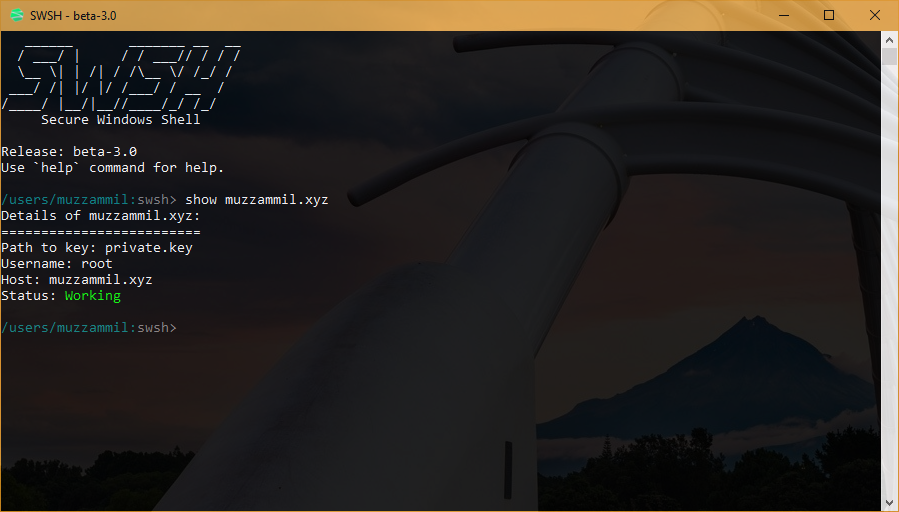
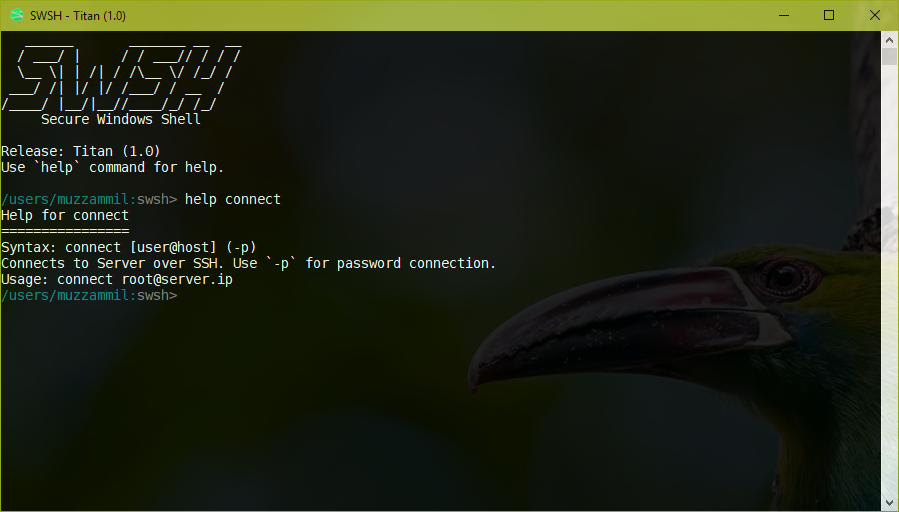
Update for Titan

diff --git a/main.js b/main.js
@@ -51,7 +51,7 @@ $(document).ready(function () {
         $(".about-window, .close").delay(1000).slideDown(1000, "linear")
     })
     $("#btn-dl").click(function () {
-        window.open("//github.com/SecureWindowsShell/SWSH/releases/download/beta-3.0/SWSH.Installer.msi", '_blank')
+        window.open("//github.com/SecureWindowsShell/SWSH/releases/download/Titan-1.0/SWSH.Installer.msi", '_blank')
         $("#thanks").slideDown(1000)
     })
     $(".close").click(function () {
